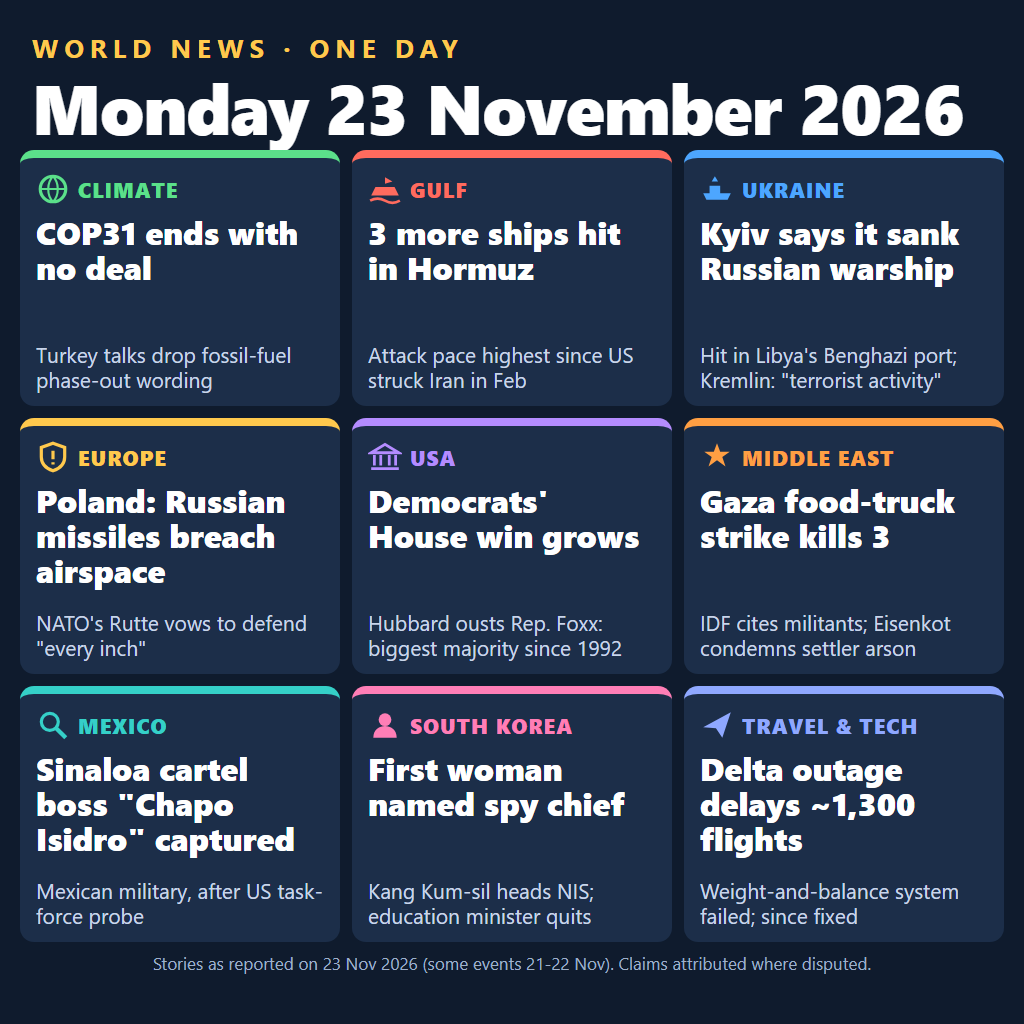
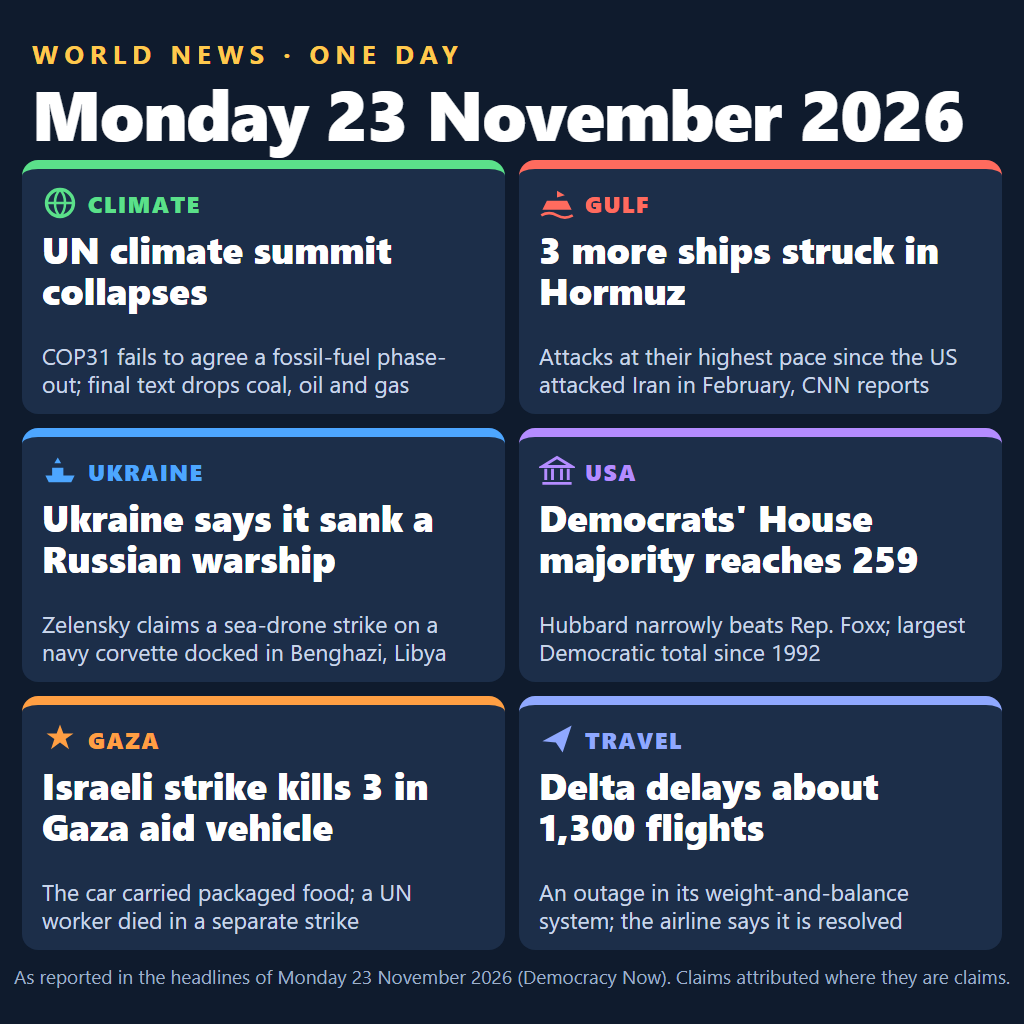
Rebuild the poster with only the items confirmed on the source page

Changed region(s): [[0.0, 0.0312, 1.0, 0.9688]]

diff --git a/src/poster.html b/src/poster.html
@@ -3,47 +3,38 @@
 <style>
 *{box-sizing:border-box;margin:0;padding:0}
 body{width:1024px;height:1024px;background:#0f1b2d;font-family:"Segoe UI",Arial,sans-serif;color:#fff;overflow:hidden}
-header{height:150px;padding:20px 32px 0;display:flex;flex-direction:column;justify-content:center}
+header{height:160px;padding:22px 32px 0;display:flex;flex-direction:column;justify-content:center}
 .kicker{font-size:26px;letter-spacing:6px;color:#ffc94d;font-weight:700}
 h1{white-space:nowrap;font-size:70px;line-height:1;font-weight:800;letter-spacing:-1px;margin-top:6px}
-.grid{display:grid;grid-template-columns:repeat(3,1fr);grid-template-rows:repeat(3,1fr);gap:12px;padding:0 20px;height:792px}
-.t{border-radius:14px;padding:14px 16px;background:#1c2e49;border-top:8px solid var(--c);display:flex;flex-direction:column}
-.tag{display:flex;align-items:center;gap:8px;font-size:21px;font-weight:800;color:var(--c);letter-spacing:1px}
-.tag svg{width:34px;height:34px;flex:none}
-.h{font-size:32px;line-height:1.1;font-weight:800;margin-top:8px}
-.s{font-size:21px;line-height:1.2;margin-top:auto;color:#c9d6ea}
-footer{height:50px;font-size:17px;color:#9fb0c9;text-align:center;padding-top:10px;line-height:1.3}
+.grid{display:grid;grid-template-columns:repeat(2,1fr);grid-template-rows:repeat(3,1fr);gap:14px;padding:0 22px;height:790px}
+.t{border-radius:16px;padding:16px 20px;background:#1c2e49;border-top:9px solid var(--c);display:flex;flex-direction:column}
+.tag{display:flex;align-items:center;gap:10px;font-size:23px;font-weight:800;color:var(--c);letter-spacing:1.5px}
+.tag svg{width:36px;height:36px;flex:none}
+.h{font-size:37px;line-height:1.1;font-weight:800;margin-top:8px}
+.s{font-size:23px;line-height:1.22;margin-top:auto;color:#c9d6ea}
+footer{height:74px;font-size:19px;color:#9fb0c9;text-align:center;padding-top:14px;line-height:1.35}
 </style></head><body>
 <header><div class="kicker">WORLD NEWS · ONE DAY</div><h1>Monday 23 November 2026</h1></header>
 <div class="grid">
 
-<div class="t" style="--c:#5be08a"><div class="tag"><svg viewBox="0 0 32 32"><circle cx="16" cy="16" r="12" fill="none" stroke="#5be08a" stroke-width="3"/><path d="M4 16h24M16 4c-6 6-6 18 0 24M16 4c6 6 6 18 0 24" fill="none" stroke="#5be08a" stroke-width="2"/></svg>CLIMATE</div>
-<div class="h">COP31 ends with no deal</div><div class="s">Turkey talks drop fossil-fuel phase-out wording</div></div>
+<div class="t" style="--c:#5be08a"><div class="tag"><svg viewBox="0 0 32 32"><circle cx="16" cy="16" r="12" fill="none" stroke="#5be08a" stroke-width="3"/><path d="M4 16h24M16 4c-6 6-6 18 0 24M16 4c6 6 6 18 0 24" fill="none" stroke="#5be08a" stroke-width="2.2"/></svg>CLIMATE</div>
+<div class="h">UN climate summit collapses</div><div class="s">COP31 fails to agree a fossil-fuel phase-out; final text drops coal, oil and gas</div></div>
 
 <div class="t" style="--c:#ff6b5e"><div class="tag"><svg viewBox="0 0 32 32"><path d="M3 22l4-8h18l4 8zM16 14V5l7 4-7 2" fill="#ff6b5e"/><path d="M2 27q7-4 14 0t14 0" fill="none" stroke="#ff6b5e" stroke-width="2.5"/></svg>GULF</div>
-<div class="h">3 more ships hit in Hormuz</div><div class="s">Attack pace highest since US struck Iran in Feb</div></div>
+<div class="h">3 more ships struck in Hormuz</div><div class="s">Attacks at their highest pace since the US attacked Iran in February, CNN reports</div></div>
 
 <div class="t" style="--c:#4da6ff"><div class="tag"><svg viewBox="0 0 32 32"><path d="M3 20l3 6h20l3-6zM9 20v-7h10v7M19 15l6 5" fill="#4da6ff"/><path d="M14 4l3 5h-6z" fill="#4da6ff"/></svg>UKRAINE</div>
-<div class="h">Kyiv says it sank Russian warship</div><div class="s">Hit in Libya's Benghazi port; Kremlin: "terrorist activity"</div></div>
-
-<div class="t" style="--c:#ffc94d"><div class="tag"><svg viewBox="0 0 32 32"><path d="M16 3l11 4v9c0 7-5 11-11 13C10 27 5 23 5 16V7z" fill="none" stroke="#ffc94d" stroke-width="3"/><path d="M16 10v8M16 21v2" stroke="#ffc94d" stroke-width="3"/></svg>EUROPE</div>
-<div class="h">Poland: Russian missiles breach airspace</div><div class="s">NATO's Rutte vows to defend "every inch"</div></div>
+<div class="h">Ukraine says it sank a Russian warship</div><div class="s">Zelensky claims a sea-drone strike on a navy corvette docked in Benghazi, Libya</div></div>
 
 <div class="t" style="--c:#b48cff"><div class="tag"><svg viewBox="0 0 32 32"><path d="M3 12L16 4l13 8zM6 14v10M12 14v10M20 14v10M26 14v10M3 27h26" fill="none" stroke="#b48cff" stroke-width="2.6"/></svg>USA</div>
-<div class="h">Democrats' House win grows</div><div class="s">Hubbard ousts Rep. Foxx: biggest majority since 1992</div></div>
+<div class="h">Democrats' House majority reaches 259</div><div class="s">Hubbard narrowly beats Rep. Foxx; largest Democratic total since 1992</div></div>
 
-<div class="t" style="--c:#ff9f43"><div class="tag"><svg viewBox="0 0 32 32"><path d="M16 3l3 8h9l-7 5 3 9-8-6-8 6 3-9-7-5h9z" fill="#ff9f43"/></svg>MIDDLE EAST</div>
-<div class="h">Gaza food-truck strike kills 3</div><div class="s">IDF cites militants; Eisenkot condemns settler arson</div></div>
+<div class="t" style="--c:#ff9f43"><div class="tag"><svg viewBox="0 0 32 32"><path d="M16 3l3 8h9l-7 5 3 9-8-6-8 6 3-9-7-5h9z" fill="#ff9f43"/></svg>GAZA</div>
+<div class="h">Israeli strike kills 3 in Gaza aid vehicle</div><div class="s">The car carried packaged food; a UN worker died in a separate strike</div></div>
 
-<div class="t" style="--c:#35d0c8"><div class="tag"><svg viewBox="0 0 32 32"><circle cx="13" cy="13" r="8" fill="none" stroke="#35d0c8" stroke-width="3"/><path d="M19 19l9 9" stroke="#35d0c8" stroke-width="4"/></svg>MEXICO</div>
-<div class="h">Sinaloa cartel boss "Chapo Isidro" captured</div><div class="s">Mexican military, after US task-force probe</div></div>
-
-<div class="t" style="--c:#ff7eb6"><div class="tag"><svg viewBox="0 0 32 32"><circle cx="16" cy="11" r="6" fill="#ff7eb6"/><path d="M5 28c0-8 6-11 11-11s11 3 11 11z" fill="#ff7eb6"/></svg>SOUTH KOREA</div>
-<div class="h">First woman named spy chief</div><div class="s">Kang Kum-sil heads NIS; education minister quits</div></div>
-
-<div class="t" style="--c:#8fa8ff"><div class="tag"><svg viewBox="0 0 32 32"><path d="M3 18l26-14-8 24-6-9z" fill="#8fa8ff"/></svg>TRAVEL &amp; TECH</div>
-<div class="h">Delta outage delays ~1,300 flights</div><div class="s">Weight-and-balance system failed; since fixed</div></div>
+<div class="t" style="--c:#8fa8ff"><div class="tag"><svg viewBox="0 0 32 32"><path d="M3 18l26-14-8 24-6-9z" fill="#8fa8ff"/></svg>TRAVEL</div>
+<div class="h">Delta delays about 1,300 flights</div><div class="s">An outage in its weight-and-balance system; the airline says it is resolved</div></div>
 
 </div>
-<footer>Stories as reported on 23 Nov 2026 (some events 21-22 Nov). Claims attributed where disputed.</footer>
+<footer>As reported in the headlines of Monday 23 November 2026 (Democracy Now). Claims attributed where they are claims.</footer>
 </body></html>

diff --git a/NOTES.md b/NOTES.md
@@ -1,16 +1,16 @@
 # Notes
 
 Image: `entry.png`, rendered from `src/poster.html` (hand-written HTML/CSS/SVG) with headless Edge at 1024x1024.
-Stories are those reported on Monday 23 Nov 2026 (several happened 20-22 Nov and were reported that day). Each is backed by at least two of the sources below.
 
-- COP31 ends without a deal: Democracy Now headlines 2026-11-23; Just Security Early Edition 2026-11-23 (citing BBC); 10 Things Global News 23 Nov.
-- Three more ships hit in Hormuz: Democracy Now headlines (citing CNN); Global News Brief 23 Nov (openchronicle.org).
-- Ukraine says it sank a Russian warship at Benghazi: Democracy Now; Just Security (WSJ, Reuters); 10 Things.
-- Poland airspace / NATO's Rutte: Just Security (Reuters); 10 Things Global News.
-- Hubbard beats Foxx, Democrats' largest House majority since 1992: Democracy Now; Just Security (AP, NYT).
-- Gaza food-truck strike, Eisenkot on settler arson: Democracy Now; Just Security (Reuters).
-- "Chapo Isidro" captured: Just Security (US Justice Dept); openchronicle brief.
-- South Korea names Kang Kum-sil intelligence chief: Just Security (Reuters); openchronicle brief.
-- Delta delays: Democracy Now; openchronicle brief; AP top stories.
+Every tile was checked against the primary page, Democracy Now's "Headlines for November 23, 2026"
+(https://www.democracynow.org/2026/11/23/headlines), and is worded as that page words it:
 
-Left out: anything with a single source (e.g. sport, markets, BepiColombo, Nvidia probe).
+- COP31: the summit "collapsed" as nations failed to agree a fossil-fuel phase-out; the draft text did not mention coal, oil or gas.
+- Hormuz: at least three more ships struck by projectiles; CNN reports attacks at their highest levels since the US attacked Iran in February.
+- Ukraine: a Russian warship sank after being struck while docked at Benghazi, Libya; Zelensky claimed responsibility (a sea drone hit a navy corvette).
+- USA: Chuck Hubbard narrowly defeated Rep. Virginia Foxx, giving Democrats at least 259 House seats, the largest total since after the 1992 elections.
+- Gaza: an Israeli airstrike killed three Palestinians in a vehicle carrying packaged food in Gaza City; a UN agency worker was killed in a separate strike.
+- Delta: about 1,300 flights delayed by an outage in the weight-and-balance system, which the airline says is resolved.
+
+Left out: items that could not be confirmed on that page (a Poland airspace report, a Mexican cartel arrest, a South Korean
+intelligence appointment) and the Kremlin and IDF quotes from earlier drafts.
